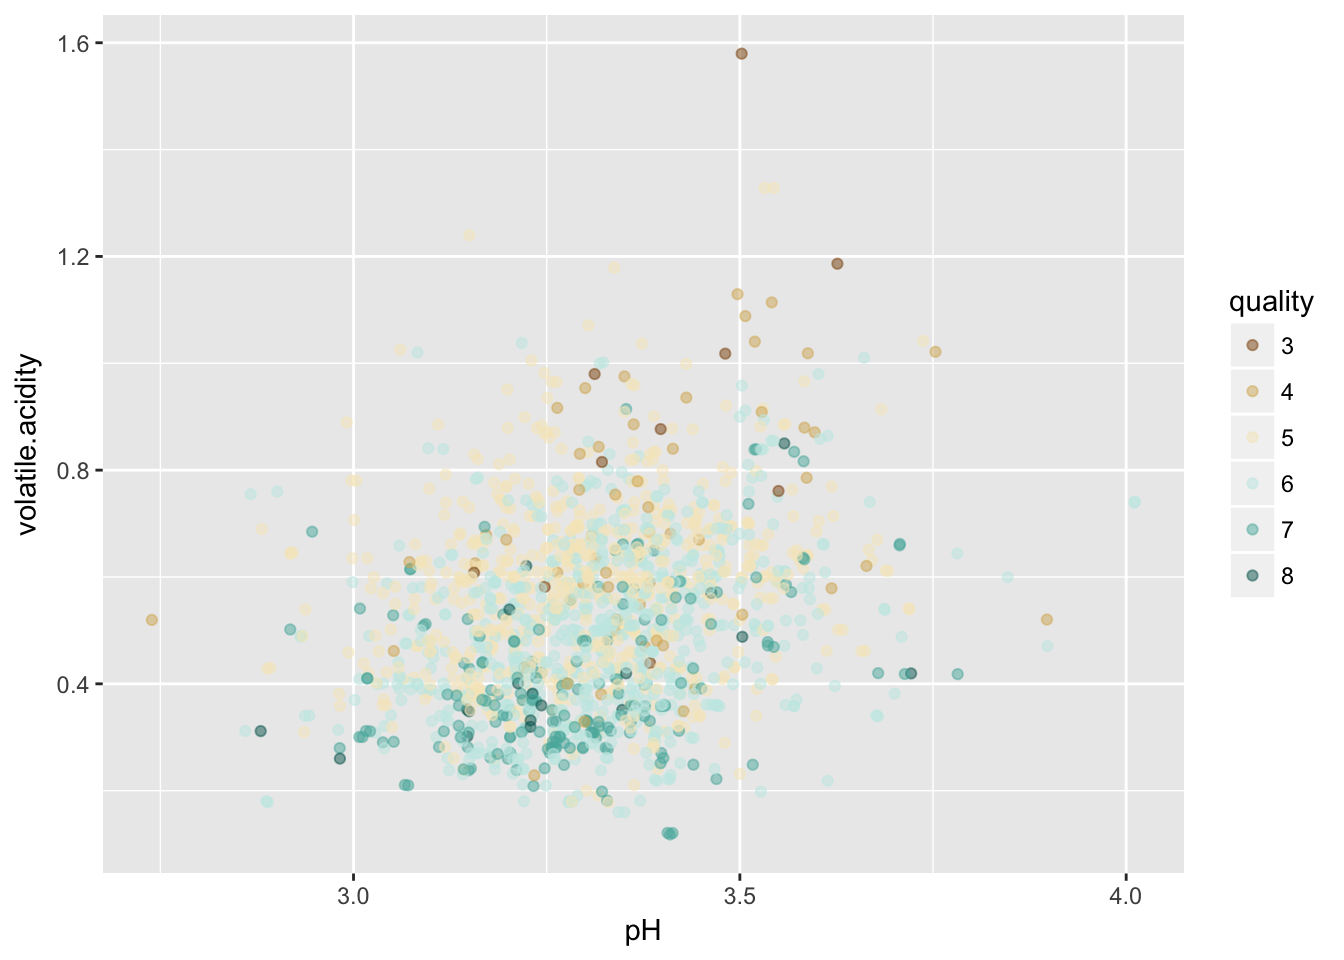
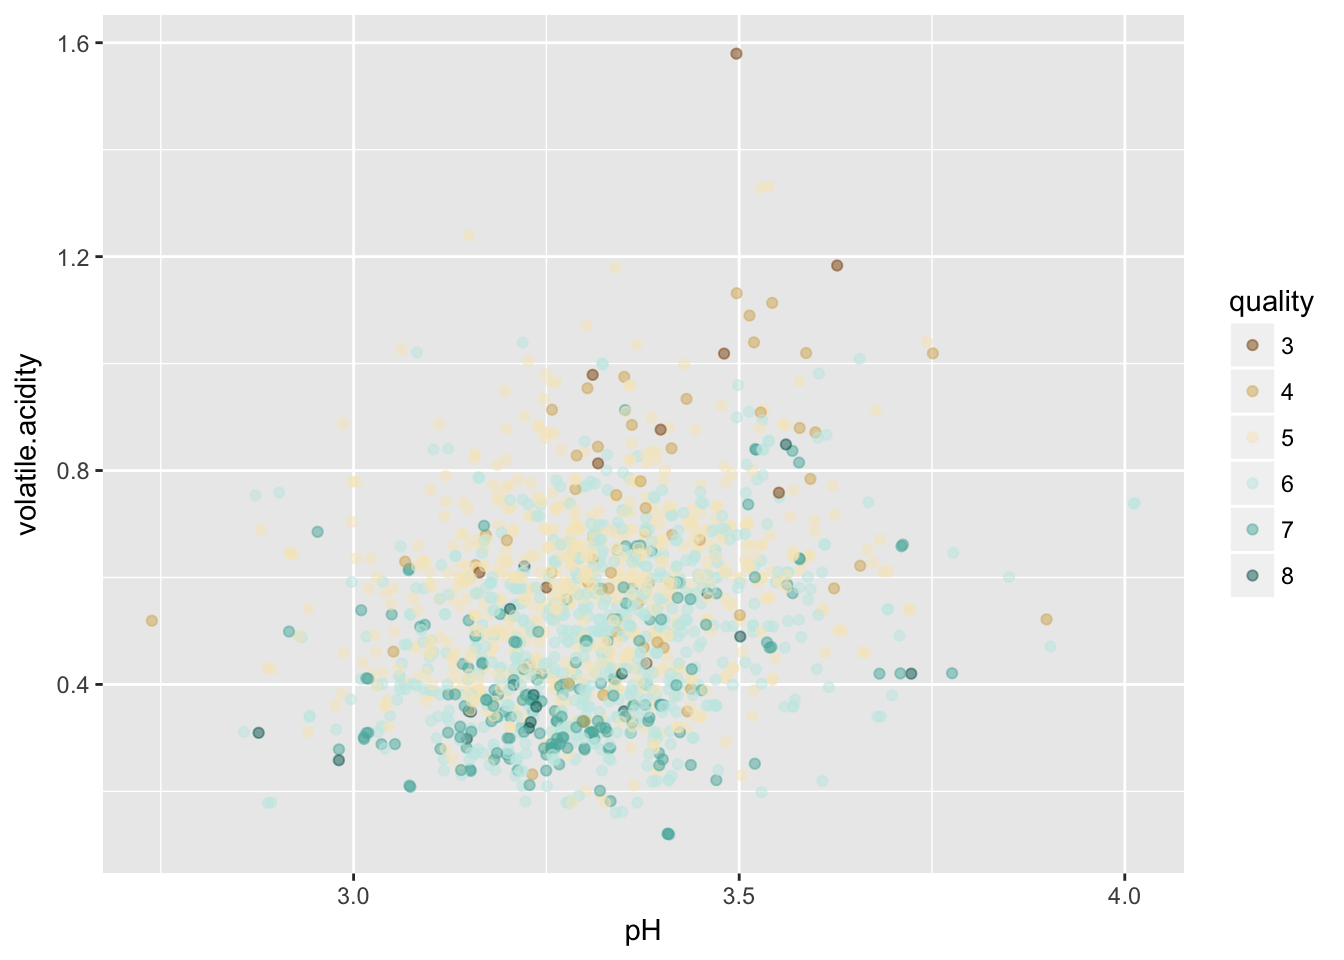
feat: Add final plot II
Add plot Quality vs Volatile Acidity and Sulphates

diff --git a/udacity_dand-p4-explore-and-summarize-data.html b/udacity_dand-p4-explore-and-summarize-data.html
@@ -622,7 +622,7 @@ plot_quality_vs_two_var &lt;- function(variable1, variable2) {
 <h2><span class="header-section-number">7.4</span> Quality vs Volatile Acidity and Chlorides</h2>
 <pre class="r"><code>plot_quality_vs_two_var(&#39;chlorides&#39;, &#39;volatile.acidity&#39;) + 
   scale_x_continuous(limits = c(0, 0.2))</code></pre>
-<pre><code>## Warning: Removed 42 rows containing missing values (geom_point).</code></pre>
+<pre><code>## Warning: Removed 41 rows containing missing values (geom_point).</code></pre>
 <p><img src="udacity_dand-p4-explore-and-summarize-data_files/figure-html/unnamed-chunk-41-1.png" width="672" /></p>
 <p>High quality wines tend to have low volatile acidity and low chlorides (lower left corner); low quality wines tend to have high volatile acidity and high chlorides (upper right corner).</p>
 </div>
@@ -780,11 +780,15 @@ mtable(m1, m2, m3, sdigits = 3)</code></pre>
   scale_color_brewer(type = &#39;div&#39;, name = &#39;Quality&#39;) +
   xlab(expression(Sulphates~(g~dm^{-3}))) + 
   ylab(expression(Volatile~Acidity~(g~dm^{-3}))) + 
-  ggtitle(&#39;Quality vs Volatile Acidity and Sulphates&#39;)</code></pre>
+  ggtitle(&#39;Quality vs Volatile Acidity and Sulphates&#39;) +
+  theme(panel.grid.major = element_blank(), 
+        panel.grid.minor = element_blank(),
+        panel.background = element_blank())</code></pre>
 <pre><code>## Scale for &#39;colour&#39; is already present. Adding another scale for
 ## &#39;colour&#39;, which will replace the existing scale.</code></pre>
 <pre><code>## Warning: Removed 36 rows containing missing values (geom_point).</code></pre>
 <p><img src="udacity_dand-p4-explore-and-summarize-data_files/figure-html/unnamed-chunk-50-1.png" width="672" /></p>
+<p>Excluding the upper 1% outliers, one can see from the plot that higher quality wines (dark green) tend to have low volatile acidity and high sulphates (lower right corner), while lower quality wines (dark brown) tend to have high volatile acidity and low sulphates (upper left corner).</p>
 </div>
 </div>
 
